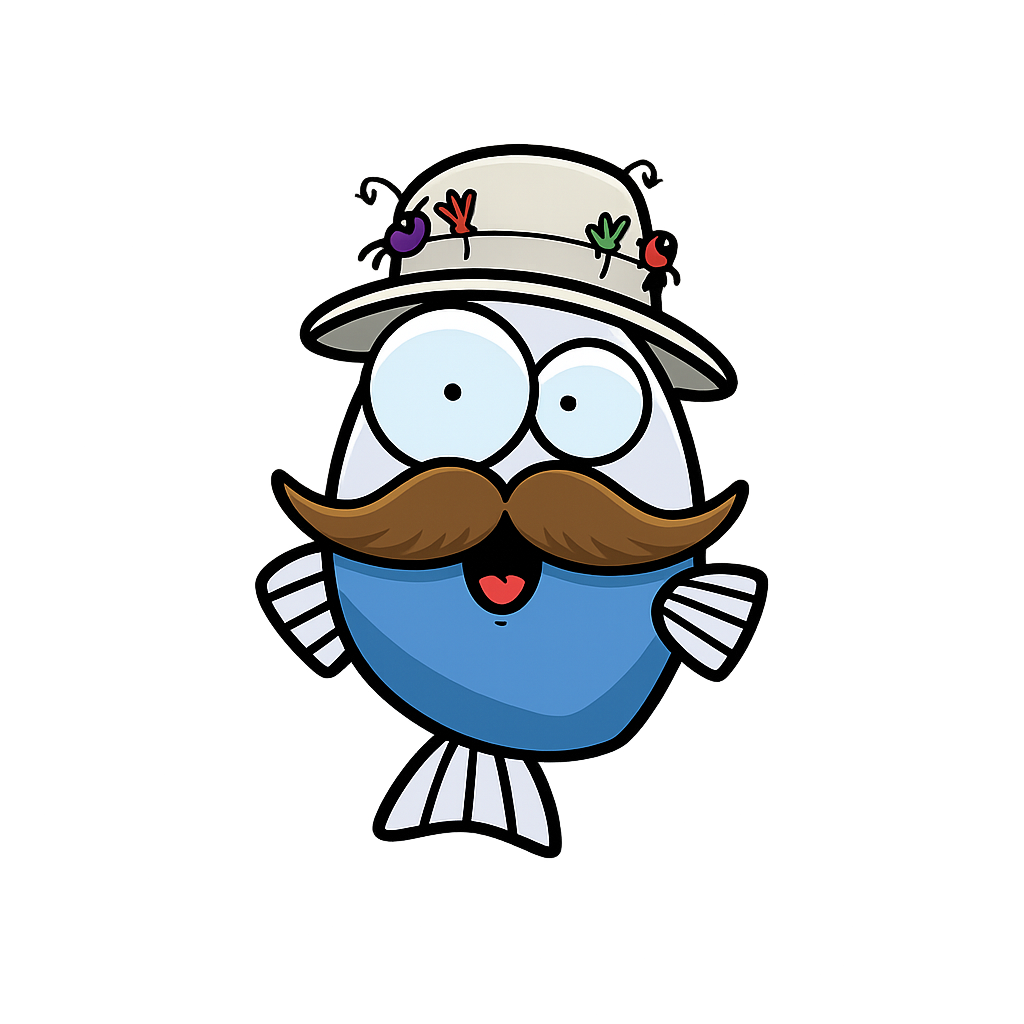
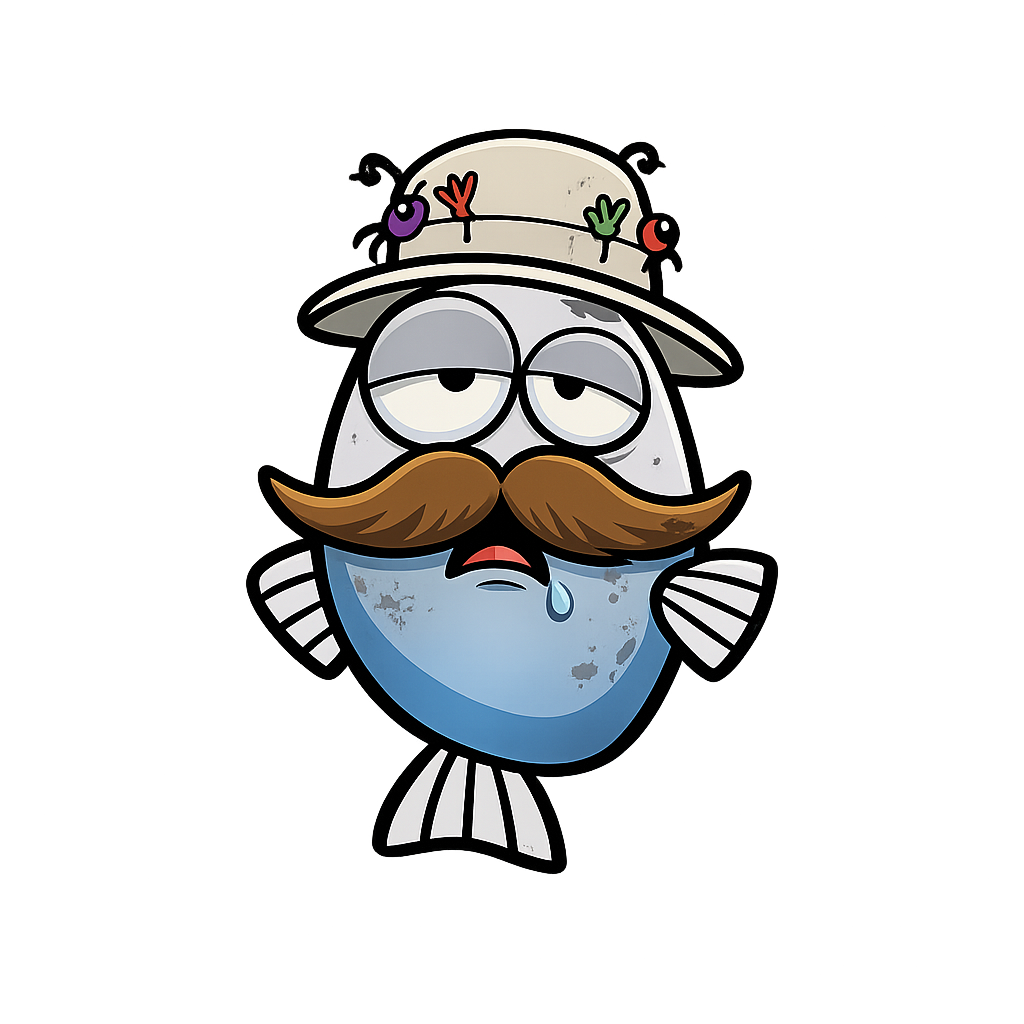
Add files via upload

Changed region(s): [[0.2188, 0.125, 0.7812, 0.875], [0.7188, 0.4375, 0.75, 0.4688]]

diff --git a/app.js b/app.js
@@ -3328,9 +3328,38 @@ setInterval(injectWeatherIntoCatchCards, 800);
     'Wenn jetzt keiner beisst, liegt es sicher am Luftdruck. Oder am Fahrer. Eher am Fahrer.',
     'Der Kapitän bekommt Bonuspunkte – aber nur, wenn er nicht wie ein Einkaufswagen driftet.'
   ];
+  const feedFishStages=[
+    {level:1,title:'Fit & Fröhlich',tone:'feed-good',caption:'Top fit und voller Energie!'},
+    {level:2,title:'Etwas hungrig',tone:'feed-ok',caption:'Hat etwas Hunger, aber noch okay.'},
+    {level:3,title:'Nicht gut drauf',tone:'feed-warn',caption:'Ihm geht’s nicht mehr so gut.'},
+    {level:4,title:'Schlecht gelaunt',tone:'feed-warn',caption:'Schon ziemlich mitgenommen.'},
+    {level:5,title:'Abgemagert',tone:'feed-danger',caption:'Er hat stark abgebaut.'},
+    {level:6,title:'Fast am Ende',tone:'feed-critical',caption:'Es geht ihm richtig schlecht.'},
+    {level:7,title:'Tot',tone:'feed-dead',caption:'RIP kleiner Freund.'}
+  ];
+  const feedRoasts=[
+    'Der Alte sagt: Dein Fisch schaut schon, als hätte er den Wetterbericht gelesen.',
+    'Fang was. Der kleine Schnauzer-Fisch googelt schon Bestattungsinstitute.',
+    'Noch kein Fisch? Dann füttert ihn wenigstens mit Hoffnung. Kalorienarm, aber traurig.',
+    'Der Fisch macht nicht schlapp. Er macht nur sehr überzeugend Theater.',
+    'Wenn jetzt keiner beisst, stirbt zuerst die Motivation. Danach der Fisch.',
+    'Der Fisch sagt: Ich bin nicht wütend, nur enttäuscht. Und hungrig.'
+  ];
+  function feedFishIntervalMs(s){return Math.max(45000,Number(s.durationMin||15)*60000/6);}
+  function feedFishStage(level){return feedFishStages[Math.min(6,Math.max(0,Number(level||1)-1))]||feedFishStages[0];}
+  function feedFishDefaultPlayer(){const now=Date.now();return {level:1,lastFedAt:now,lastStageAt:now,resilientUntil:0,mutatedUntil:0,twist:''};}
+  function ensureFeedFishState(s){s.feedFish=s.feedFish||{players:{},nextTwistAt:Date.now()+90000,events:[]};[s.captainId,s.opponentId].filter(Boolean).forEach(id=>{if(!s.feedFish.players[id])s.feedFish.players[id]=feedFishDefaultPlayer();});return s.feedFish;}
+  function feedFishOwnerIds(s){return [s.captainId,s.opponentId].filter(Boolean);}
+  function feedFishProgress(player,s){if(Number(player.level||1)>=7)return 100;return Math.max(0,Math.min(100,((Date.now()-Number(player.lastStageAt||Date.now()))/feedFishIntervalMs(s))*100));}
+  function feedFishApplyDecay(s){if(!s.active||s.mode!=='feed')return s;const feed=ensureFeedFishState(s),now=Date.now(),interval=feedFishIntervalMs(s);let changed=false;feedFishOwnerIds(s).forEach(id=>{const p=feed.players[id];if(!p||Number(p.level||1)>=7)return;if(now-Number(p.lastStageAt||now)<interval)return;if(Number(p.resilientUntil||0)>now){p.lastStageAt=now;p.twist='Resilient! Der Fisch ignoriert den Hunger einfach.';changed=true;return;}p.level=Math.min(7,Number(p.level||1)+1);p.lastStageAt=now;p.twist=p.level>=7?'Oh no. Der Fisch ist hinüber.':'Der Fisch verkümmert eine Stufe.';changed=true;});if(now>=Number(feed.nextTwistAt||0)){feed.nextTwistAt=now+90000+Math.floor(Math.random()*150000);const ids=feedFishOwnerIds(s);const id=ids[Math.floor(Math.random()*ids.length)];const p=id&&feed.players[id];const r=Math.random();if(p&&r<.20&&Number(p.level||1)<7){p.level=Math.min(7,Number(p.level||1)+1);p.lastStageAt=now;p.twist='Random Krankheit! Der Fisch sieht plötzlich richtig elend aus.';s.lastTalk=`${participantName(id)}s Fisch hat spontan die Lebensfreude verloren. +1 Verkümmerung.`;changed=true;addRemoteEvent(s,'feed_twist',id,{type:'sick',level:p.level});}else if(p&&r<.30){p.resilientUntil=now+interval;p.twist='Resilient! Eine Verkümmerung wird geblockt.';s.lastTalk=`${participantName(id)}s Fisch ist heute aus Stahl. Nächster Schaden wird geblockt.`;changed=true;addRemoteEvent(s,'feed_twist',id,{type:'resilient'});}else if(p&&r<.35){p.level=Math.max(1,Number(p.level||1)-1);p.mutatedUntil=now+interval;p.lastStageAt=now;s.score=s.score||{};s.score[id]=Number(s.score[id]||0)+5;p.twist='Mutation! Der Schnauzer glüht – Bonus +5.';s.lastTalk=`Mutation! ${participantName(id)}s Fisch mutiert zum Biersee-Champion. +5 Punkte.`;changed=true;addRemoteEvent(s,'feed_twist',id,{type:'mutation',bonus:5});}}
+    if(changed)saveDuelState(s);return s;}
+  function feedFishAfterCatch(s,target,fish){if(s.mode!=='feed'||!target)return;const feed=ensureFeedFishState(s),p=feed.players[target]||feedFishDefaultPlayer();feed.players[target]=p;p.level=Math.max(1,Number(p.level||1)-2);p.lastFedAt=Date.now();p.lastStageAt=Date.now();p.twist=`Gefüttert mit ${fish.species}. Nur dieser Fisch erholt sich.`;s.lastTalk=`${participantName(target)} füttert seinen Fisch mit ${fish.species}. Der Kleine lebt wieder auf.`;addRemoteEvent(s,'feed',target,{species:fish.species,level:p.level});}
+  function resetFeedFish(){let s=getDuelState();s.feedFish=null;ensureFeedFishState(s);s.lastTalk='Alle Fische sind frisch gebadet, rasiert und bereit für schlechte Entscheidungen.';saveDuelState(s);updateDuelUi();}
+  function renderFeedFishUi(){const card=document.getElementById('feedFishCard'),grid=document.getElementById('feedFishGrid');if(!card||!grid)return;let s=getDuelState();const isFeed=s.mode==='feed';card.classList.toggle('is-feed-active',isFeed);if(!isFeed){grid.innerHTML='<div class="feed-fish-empty">Wähle oben den Modus <b>Feed your Fish</b>, starte das Duell und halte eure Schnauzer-Fische am Leben.</div>';return;}s=feedFishApplyDecay(s);const feed=ensureFeedFishState(s);const intervalMin=Math.round(feedFishIntervalMs(s)/60000);grid.innerHTML=feedFishOwnerIds(s).map(id=>{const p=feed.players[id]||feedFishDefaultPlayer();feed.players[id]=p;const stage=feedFishStage(p.level);const progress=feedFishProgress(p,s);const toNext=Number(p.level||1)>=7?'Endstation':`${Math.max(0,Math.ceil((feedFishIntervalMs(s)-(Date.now()-Number(p.lastStageAt||Date.now())))/60000))} min bis Stufe ${Number(p.level||1)+1}`;return `<article class="feed-fish-player ${stage.tone}"><div class="feed-fish-img-wrap"><img src="Transformation/Stufe_${stage.level}.png" alt="${escapeHtml(stage.title)}" loading="lazy"></div><div class="feed-fish-copy"><div class="feed-fish-player-head"><strong>${escapeHtml(participantAvatar(id))} ${escapeHtml(participantName(id))}</strong><span>Stufe ${stage.level}/7</span></div><h4>${escapeHtml(stage.title)}</h4><p>${escapeHtml(stage.caption)}</p><div class="feed-fish-progress"><i style="width:${progress}%"></i></div><small>${escapeHtml(toNext)} · Zyklus ${intervalMin} min${p.twist?` · ${escapeHtml(p.twist)}`:''}</small></div></article>`;}).join('')||'<div class="feed-fish-empty">Wähle zwei Teilnehmer, damit jeder einen Fisch bekommt.</div>';saveDuelState(s);}
+
   let duelMap=null,duelRoute=null,duelMarkers=[];
   let tickTimer=null,gpsTimer=null,talkTimer=null,leaderboardCache=[];
-  function defaultDuelState(){return {duelId:null,active:false,startedAt:null,durationMin:60,captainId:'',opponentId:'',mode:'trolling',score:{},catches:[],route:[],weather:null,lastTalk:roasts[0],endedAt:null,routeSnapshotSvg:null};}
+  function defaultDuelState(){return {duelId:null,active:false,startedAt:null,durationMin:60,captainId:'',opponentId:'',mode:'trolling',score:{},catches:[],route:[],weather:null,lastTalk:roasts[0],endedAt:null,routeSnapshotSvg:null,feedFish:null};}
   function getDuelState(){try{return {...defaultDuelState(),...(JSON.parse(localStorage.getItem(KEY)||'{}')||{})};}catch{return defaultDuelState();}}
   function saveDuelState(s){localStorage.setItem(KEY,JSON.stringify(s));window.duelState=s;}
   function participant(id){return (state.participants||[]).find(p=>p.id===id)||null;}
@@ -3460,6 +3489,7 @@ setInterval(injectWeatherIntoCatchCards, 800);
     if(catcher)catcher.value=s.captainId||s.opponentId||'';
     const dur=document.getElementById('duelDurationSelect');if(dur)dur.value=String(s.durationMin||60);
     const mode=document.getElementById('duelModeSelect');if(mode)mode.value=s.mode||'trolling';
+    if((s.mode||'trolling')==='feed'){ensureFeedFishState(s);saveDuelState(s);}
     updateDuelUi();
     renderDuelLeaderboard();
     setTimeout(initDuelMap,80);
@@ -3470,7 +3500,7 @@ setInterval(injectWeatherIntoCatchCards, 800);
     if(pill){pill.textContent=s.active?'Live':(s.endedAt?'Beendet':'Bereit');pill.classList.toggle('is-live',!!s.active);pill.classList.toggle('is-ended',!!s.endedAt&&!s.active);}
     const timer=document.getElementById('duelTimer');if(timer)timer.textContent=formatTime(remainingMs(s));
     const sp=document.getElementById('duelAvgSpeed');if(sp)sp.textContent=(avgSpeed(s)||0).toFixed(1).replace('.',',')+' km/h';
-    const weather=document.getElementById('duelWeather');if(weather)weather.textContent=s.weather?`${Math.round(Number(s.weather.temp_c||0))}° · ${Number(s.weather.wind_ms||0).toFixed(1).replace('.',',')} m/s`:'–';
+    const weather=document.getElementById('duelWeather');if(weather)weather.textContent=s.mode==='feed'?'Fischpflege':(s.weather?`${Math.round(Number(s.weather.temp_c||0))}° · ${Number(s.weather.wind_ms||0).toFixed(1).replace('.',',')} m/s`:'–');
     const talk=document.getElementById('duelTrashTalk');if(talk)talk.textContent=s.lastTalk||roasts[0];
     const scoreText=document.getElementById('duelScoreText');if(scoreText)scoreText.textContent=`${totalScore(s,s.captainId)} : ${totalScore(s,s.opponentId)}`;
     const scoreList=document.getElementById('duelScoreList');
@@ -3481,6 +3511,7 @@ setInterval(injectWeatherIntoCatchCards, 800);
     const tiles=document.getElementById('duelFishTiles');
     if(tiles&&!tiles.dataset.ready){tiles.innerHTML=fishTiles.map(f=>`<button type="button" class="duel-fish-tile" data-duel-fish="${escapeHtml(f.species)}"><b>${escapeHtml(f.species)}</b><small>+${f.points} P</small></button>`).join('');tiles.dataset.ready='1';}
     updateDuelMap();
+    renderFeedFishUi();
     renderDuelLeaderboard();
   }
   function initDuelMap(){
@@ -3498,17 +3529,17 @@ setInterval(injectWeatherIntoCatchCards, 800);
     if(pts.length)duelMap.fitBounds(L.latLngBounds(pts).pad(.25),{maxZoom:14});
     const meta=document.getElementById('duelMapMeta');if(meta)meta.textContent=pts.length?`${pts.length} GPS-Punkte · ${routeDistanceKm(s.route||[]).toFixed(2)} km Route · Punkte alle 2 Min.`:'Noch keine Route – GPS starten oder Punkt setzen.';
   }
-  function startTimers(){stopTimers();tickTimer=setInterval(()=>{const s=getDuelState();if(s.active&&remainingMs(s)<=0){endDuel();return;}updateDuelUi();},1000);gpsTimer=setInterval(addGpsPoint,GPS_INTERVAL_MS);talkTimer=setInterval(()=>{const s=getDuelState();s.lastTalk=roasts[Math.floor(Math.random()*roasts.length)];saveDuelState(s);addRemoteEvent(s,'message',null,{message:s.lastTalk});updateDuelUi();},TALK_INTERVAL_MS);}
+  function startTimers(){stopTimers();tickTimer=setInterval(()=>{let s=getDuelState();if(s.active&&s.mode==='feed')s=feedFishApplyDecay(s);if(s.active&&remainingMs(s)<=0){endDuel();return;}updateDuelUi();},1000);gpsTimer=setInterval(addGpsPoint,GPS_INTERVAL_MS);talkTimer=setInterval(()=>{const s=getDuelState();const pool=s.mode==='feed'?[...roasts,...feedRoasts]:roasts;s.lastTalk=pool[Math.floor(Math.random()*pool.length)];saveDuelState(s);addRemoteEvent(s,'message',null,{message:s.lastTalk});updateDuelUi();},TALK_INTERVAL_MS);}
   function stopTimers(){[tickTimer,gpsTimer,talkTimer].forEach(t=>{if(t)clearInterval(t)});tickTimer=gpsTimer=talkTimer=null;}
-  async function startDuel(){let s=ensureDuelParticipants(getDuelState());const cap=document.getElementById('duelCaptainSelect')?.value,opp=document.getElementById('duelOpponentSelect')?.value;if(!cap||!opp||cap===opp){alert('Bitte zwei unterschiedliche Teilnehmer wählen.');return;}s={...defaultDuelState(),active:true,startedAt:new Date().toISOString(),durationMin:Number(document.getElementById('duelDurationSelect')?.value||60),captainId:cap,opponentId:opp,mode:document.getElementById('duelModeSelect')?.value||'trolling',score:{[cap]:0,[opp]:0},lastTalk:'Leinen raus. Der Schleppmeister wird jetzt amtlich vermessen.'};saveDuelState(s);s=await createRemoteDuel(s);startTimers();addGpsPoint();updateDuelUi();}
-  async function endDuel(){const s=getDuelState();s.active=false;s.endedAt=new Date().toISOString();s.routeSnapshotSvg=routeSnapshotSvg(s.route||[]);setTimeout(async()=>{const u=await exportElementAsImageAndUpload('duelMap',s.id);if(u){s.imageUrl=u;saveDuelState(s);}},300);s.lastTalk='Abpfiff. Jetzt zählen nur noch Punkte, Ausreden und wer den Kescher vergessen hat.';saveDuelState(s);stopTimers();updateDuelUi();await finishRemoteDuel(s);}
+  async function startDuel(){let s=ensureDuelParticipants(getDuelState());const cap=document.getElementById('duelCaptainSelect')?.value,opp=document.getElementById('duelOpponentSelect')?.value,selectedMode=document.getElementById('duelModeSelect')?.value||'trolling';if(!cap||!opp||cap===opp){alert('Bitte zwei unterschiedliche Teilnehmer wählen.');return;}s={...defaultDuelState(),active:true,startedAt:new Date().toISOString(),durationMin:Number(document.getElementById('duelDurationSelect')?.value||60),captainId:cap,opponentId:opp,mode:selectedMode,score:{[cap]:0,[opp]:0},lastTalk:selectedMode==='feed'?'Feed your Fish läuft. Fang was, bevor der Schnauzer-Fisch dramatisch stirbt.':'Leinen raus. Der Schleppmeister wird jetzt amtlich vermessen.'};if(selectedMode==='feed')ensureFeedFishState(s);saveDuelState(s);s=await createRemoteDuel(s);startTimers();addGpsPoint();updateDuelUi();}
+  async function endDuel(){const s=getDuelState();s.active=false;s.endedAt=new Date().toISOString();s.routeSnapshotSvg=routeSnapshotSvg(s.route||[]);if(s.mode==='feed')feedFishApplyDecay(s);setTimeout(async()=>{const u=await exportElementAsImageAndUpload('duelMap',s.duelId||s.id||'local');if(u){const latest=getDuelState();latest.imageUrl=u;saveDuelState(latest);await finishRemoteDuel(latest);}},300);s.lastTalk=s.mode==='feed'?'Abpfiff. Wer seinen Fisch lebend heimbringt, darf ihn morgen wieder enttäuschen.':'Abpfiff. Jetzt zählen nur noch Punkte, Ausreden und wer den Kescher vergessen hat.';saveDuelState(s);stopTimers();updateDuelUi();await finishRemoteDuel(s);}
   async function addGpsPoint(){let s=getDuelState();if(!s.active)return;const got=await new Promise(resolve=>{if(!navigator.geolocation)return resolve(null);navigator.geolocation.getCurrentPosition(pos=>resolve({lat:pos.coords.latitude,lng:pos.coords.longitude,at:new Date().toISOString(),accuracy:pos.coords.accuracy,speed_ms:pos.coords.speed}),()=>resolve(null),{enableHighAccuracy:true,timeout:9000,maximumAge:20000});});let point=got;if(!point){const last=(s.route||[]).slice(-1)[0]||{lat:59.442773,lng:11.654906};point={lat:Number(last.lat)+(Math.random()-.45)*.006,lng:Number(last.lng)+(.004+Math.random()*.004),at:new Date().toISOString(),demo:true};}
     s.route=[...(s.route||[]),point];
     if(!s.weather&&typeof getWeather==='function'){try{const w=await getWeather(point.lat,point.lng);if(w?.current)s.weather={temp_c:w.current.temperature_2m,wind_ms:w.current.wind_speed_10m,pressure_hpa:w.current.pressure_msl,at:w.current.time};}catch(e){}}
     s.routeSnapshotSvg=routeSnapshotSvg(s.route||[]);
     saveDuelState(s);await addRemoteTrack(s,point);await addRemoteEvent(s,'gps',s.captainId,{lat:point.lat,lng:point.lng,accuracy:point.accuracy??null,demo:!!point.demo});updateDuelUi();}
-  async function addDuelCatch(species){let s=getDuelState();if(!s.active){alert('Starte zuerst ein Duell.');return;}const fish=fishTiles.find(f=>f.species===species)||fishTiles[fishTiles.length-1];const target=document.getElementById('duelCatchParticipantSelect')?.value||s.captainId;if(!target){alert('Bitte zuerst einen Fänger auswählen.');return;}s.score=s.score||{};s.score[target]=Number(s.score[target]||0)+fish.points;const catchEvent={id:crypto.randomUUID(),participantId:target,species:fish.species,points:fish.points,at:new Date().toISOString()};s.catches=[...(s.catches||[]),catchEvent];s.lastTalk=`${participantName(target)} legt ${fish.species} vor. +${fish.points} Punkte – der Kescher applaudiert.`;saveDuelState(s);await addRemoteEvent(s,'catch',target,catchEvent);await syncRemoteParticipants(s);updateDuelUi();}
-  function bindDuel(){if(document.body.dataset.duelBound==='1')return;document.body.dataset.duelBound='1';document.addEventListener('click',e=>{if(e.target.closest('#duelStartBtn'))startDuel();if(e.target.closest('#duelStopBtn'))endDuel();if(e.target.closest('#duelGpsBtn'))addGpsPoint();const tile=e.target.closest('[data-duel-fish]');if(tile)addDuelCatch(tile.dataset.duelFish);});document.addEventListener('change',e=>{if(!e.target.closest('#duelPanel'))return;let s=ensureDuelParticipants(getDuelState());if(e.target.id==='duelCaptainSelect')s.captainId=e.target.value;if(e.target.id==='duelOpponentSelect')s.opponentId=e.target.value;if(e.target.id==='duelDurationSelect')s.durationMin=Number(e.target.value||60);if(e.target.id==='duelModeSelect')s.mode=e.target.value;saveDuelState(s);updateDuelUi();});}
+  async function addDuelCatch(species){let s=getDuelState();if(!s.active){alert('Starte zuerst ein Duell.');return;}const fish=fishTiles.find(f=>f.species===species)||fishTiles[fishTiles.length-1];const target=document.getElementById('duelCatchParticipantSelect')?.value||s.captainId;if(!target){alert('Bitte zuerst einen Fänger auswählen.');return;}s.score=s.score||{};s.score[target]=Number(s.score[target]||0)+fish.points;const catchEvent={id:crypto.randomUUID(),participantId:target,species:fish.species,points:fish.points,at:new Date().toISOString()};s.catches=[...(s.catches||[]),catchEvent];s.lastTalk=`${participantName(target)} legt ${fish.species} vor. +${fish.points} Punkte – der Kescher applaudiert.`;if(s.mode==='feed')feedFishAfterCatch(s,target,fish);saveDuelState(s);await addRemoteEvent(s,'catch',target,catchEvent);await syncRemoteParticipants(s);updateDuelUi();}
+  function bindDuel(){if(document.body.dataset.duelBound==='1')return;document.body.dataset.duelBound='1';document.addEventListener('click',e=>{if(e.target.closest('#duelStartBtn'))startDuel();if(e.target.closest('#duelStopBtn'))endDuel();if(e.target.closest('#duelGpsBtn'))addGpsPoint();if(e.target.closest('#feedFishResetBtn'))resetFeedFish();const tile=e.target.closest('[data-duel-fish]');if(tile)addDuelCatch(tile.dataset.duelFish);});document.addEventListener('change',e=>{if(!e.target.closest('#duelPanel'))return;let s=ensureDuelParticipants(getDuelState());if(e.target.id==='duelCaptainSelect')s.captainId=e.target.value;if(e.target.id==='duelOpponentSelect')s.opponentId=e.target.value;if(e.target.id==='duelDurationSelect')s.durationMin=Number(e.target.value||60);if(e.target.id==='duelModeSelect'){s.mode=e.target.value;if(s.mode==='feed')ensureFeedFishState(s);}saveDuelState(s);updateDuelUi();});}
   const originalRenderTournaments=typeof renderTournaments==='function'?renderTournaments:null;
   if(originalRenderTournaments){
     renderTournaments=function(...args){const res=originalRenderTournaments.apply(this,args);try{renderDuelSection();}catch(e){console.warn('Duel render failed',e)}return res;};

diff --git a/style.css b/style.css
@@ -2796,3 +2796,127 @@ body.coach-map-open #mapPickerModal .map-actions {
     height:160px;
   }
 }
+
+/* Feed your Fish – additive mini-game, scoped inside Duel section */
+.feed-fish-card{
+  margin-top:16px;
+  border-radius:24px;
+  background:
+    radial-gradient(circle at 12% 0%, rgba(143,240,167,.13), transparent 34%),
+    rgba(255,255,255,.045);
+  border:1px solid rgba(255,255,255,.06);
+  padding:14px;
+}
+.feed-fish-head{align-items:flex-start}
+.feed-fish-help{
+  margin:-2px 0 14px;
+  color:var(--muted);
+  line-height:1.45;
+  font-weight:700;
+}
+.feed-fish-grid{
+  display:grid;
+  grid-template-columns:repeat(2,minmax(0,1fr));
+  gap:12px;
+}
+.feed-fish-empty{
+  grid-column:1/-1;
+  padding:16px;
+  border-radius:18px;
+  background:rgba(255,255,255,.045);
+  border:1px dashed rgba(255,255,255,.12);
+  color:var(--muted);
+  font-weight:800;
+}
+.feed-fish-player{
+  display:grid;
+  grid-template-columns:128px minmax(0,1fr);
+  gap:14px;
+  align-items:center;
+  border-radius:22px;
+  background:rgba(8,17,27,.56);
+  border:1px solid rgba(255,255,255,.065);
+  padding:12px;
+  overflow:hidden;
+}
+.feed-fish-img-wrap{
+  width:128px;
+  height:128px;
+  display:flex;
+  align-items:center;
+  justify-content:center;
+  border-radius:20px;
+  background:radial-gradient(circle at 50% 20%, rgba(255,255,255,.11), rgba(255,255,255,.035));
+  border:1px solid rgba(255,255,255,.06);
+}
+.feed-fish-img-wrap img{
+  width:118px;
+  height:118px;
+  object-fit:contain;
+  filter:drop-shadow(0 10px 18px rgba(0,0,0,.35));
+}
+.feed-fish-copy{min-width:0}
+.feed-fish-player-head{
+  display:flex;
+  align-items:center;
+  justify-content:space-between;
+  gap:10px;
+  margin-bottom:5px;
+}
+.feed-fish-player-head strong{
+  overflow:hidden;
+  text-overflow:ellipsis;
+  white-space:nowrap;
+  font-size:1rem;
+}
+.feed-fish-player-head span{
+  flex:0 0 auto;
+  padding:5px 9px;
+  border-radius:999px;
+  background:rgba(255,255,255,.07);
+  border:1px solid rgba(255,255,255,.07);
+  color:var(--muted);
+  font-weight:900;
+  font-size:.76rem;
+}
+.feed-fish-copy h4{
+  margin:0 0 3px;
+  font-size:1.25rem;
+}
+.feed-fish-copy p{
+  margin:0 0 10px;
+  color:var(--muted);
+  font-weight:700;
+}
+.feed-fish-progress{
+  height:10px;
+  border-radius:999px;
+  overflow:hidden;
+  background:rgba(255,255,255,.08);
+  box-shadow:inset 0 0 0 1px rgba(255,255,255,.035);
+  margin-bottom:8px;
+}
+.feed-fish-progress i{
+  display:block;
+  height:100%;
+  border-radius:999px;
+  background:linear-gradient(90deg,#69eadf,#8ff0a7);
+  transition:width .4s ease;
+}
+.feed-fish-copy small{
+  display:block;
+  color:var(--muted);
+  line-height:1.35;
+  font-weight:800;
+}
+.feed-fish-player.feed-ok .feed-fish-progress i{background:linear-gradient(90deg,#c9f25d,#8ff0a7)}
+.feed-fish-player.feed-warn .feed-fish-progress i{background:linear-gradient(90deg,#ffb84d,#f6e36d)}
+.feed-fish-player.feed-danger .feed-fish-progress i{background:linear-gradient(90deg,#ff7a45,#ffb84d)}
+.feed-fish-player.feed-critical .feed-fish-progress i,.feed-fish-player.feed-dead .feed-fish-progress i{background:linear-gradient(90deg,#ff5c6c,#ff7a45)}
+.feed-fish-player.feed-dead{
+  border-color:rgba(255,92,108,.25);
+  background:radial-gradient(circle at 50% 0%, rgba(255,92,108,.10), transparent 42%), rgba(8,17,27,.62);
+}
+.feed-fish-player.feed-dead .feed-fish-img-wrap img{filter:grayscale(.2) drop-shadow(0 10px 18px rgba(0,0,0,.42))}
+@media (max-width:1100px){.feed-fish-grid{grid-template-columns:1fr}}
+@media (max-width:760px){.feed-fish-player{grid-template-columns:96px minmax(0,1fr);gap:10px}.feed-fish-img-wrap{width:96px;height:96px}.feed-fish-img-wrap img{width:92px;height:92px}.feed-fish-copy h4{font-size:1.05rem}}

diff --git a/index.html b/index.html
@@ -362,7 +362,7 @@
                 <label><span>Herausforderer</span><select id="duelOpponentSelect"></select></label>
                 <label><span>Fänger</span><select id="duelCatchParticipantSelect"></select></label>
                 <label><span>Dauer</span><select id="duelDurationSelect"><option value="60">1 Stunde</option><option value="30">30 Min. Quick Fight</option><option value="15">15 Min. Hafen-Randale</option></select></label>
-                <label><span>Modus</span><select id="duelModeSelect"><option value="trolling">Schleppmeister</option><option value="blitz">Blitz-Battle</option></select></label>
+                <label><span>Modus</span><select id="duelModeSelect"><option value="trolling">Schleppmeister</option><option value="blitz">Blitz-Battle</option><option value="feed">Feed your Fish</option></select></label>
               </div>
               <div class="duel-actions">
                 <button type="button" class="pill primary" id="duelStartBtn">▶ Duell starten</button>
@@ -391,6 +391,18 @@
               <div id="duelFishTiles" class="duel-fish-tiles"></div>
             </section>
           </div>
+          <section class="feed-fish-card" id="feedFishCard" aria-label="Feed your Fish Minigame">
+            <div class="duel-score-head feed-fish-head">
+              <div>
+                <span>Mini-Game</span>
+                <strong>🐟 Feed your Fish</strong>
+              </div>
+              <button type="button" class="pill secondary" id="feedFishResetBtn">Fische resetten</button>
+            </div>
+            <div class="feed-fish-help">Jeder Spieler besitzt einen Fisch. Ohne Fang verkümmert er Stufe für Stufe – ein eigener Fang füttert nur den eigenen Fisch.</div>
+            <div id="feedFishGrid" class="feed-fish-grid"></div>
+          </section>
+
           <section class="duel-history-card">
             <div class="duel-score-head"><span>Duell-Rangliste</span><strong>Historie</strong></div>
             <div id="duelLeaderboard" class="duel-leaderboard"></div>
